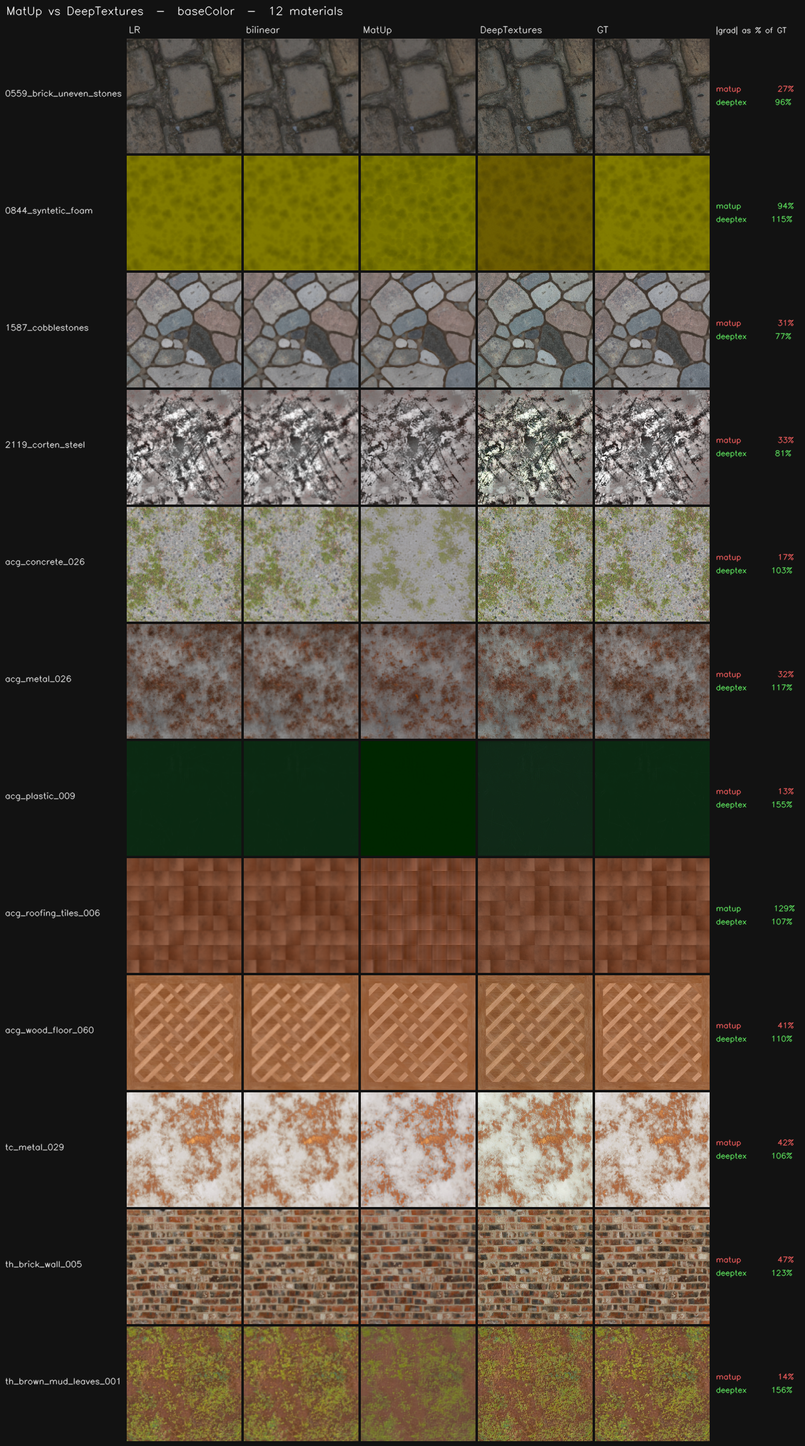
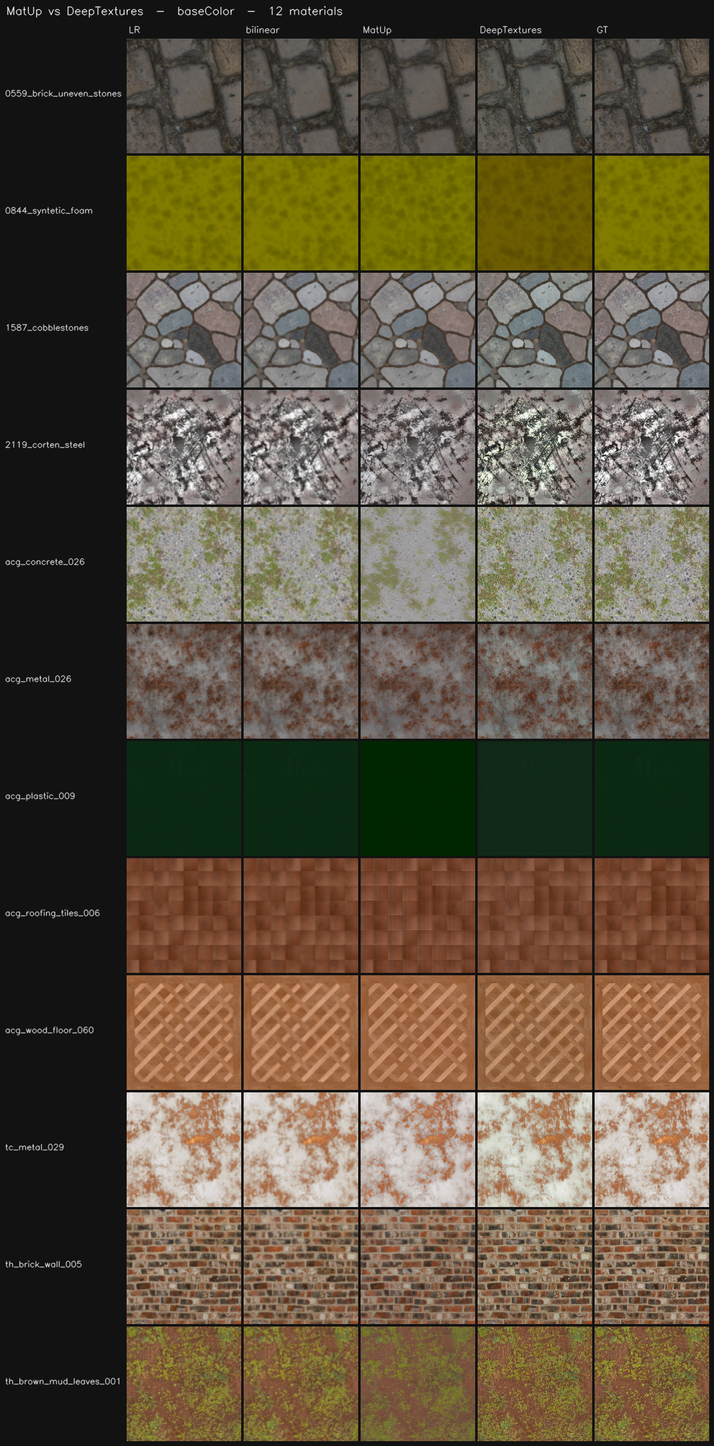
Drop the gradient percentages from the overview sheet
The numbers were stamped beside every row in red and green, which tells the eye
what to conclude before it has looked. The sheet is a contact sheet; the reader
should be able to see that the MatUp column is soft and the DeepTextures column
is not, without a colour-coded verdict pointing at it.

The finding is unchanged and still recorded - runs/montages/<material>.json under
maps.<map> carries grad and lapvar for every column, and the docstring keeps the
range so nobody re-adds the feature without knowing why it went.

Sheet is now 1184x2396, images only.

diff --git a/scripts/compare/matup_overview.py b/scripts/compare/matup_overview.py
@@ -9,18 +9,19 @@ matup_montage.py answers "what did the methods do to THIS material". This answer
 twelve separate files cannot show. Cells come from the same compare/ directories,
 so nothing is recomputed and nothing can drift from the per-material sheets.
 
-The gradient column is why this sheet exists rather than a table. Over the twelve
-materials MatUp lands at 14-47% of the ground truth's mean gradient magnitude and
-DeepTextures at 78-156%, while PSNR prefers MatUp on ten of twelve - and prefers
-the untouched LR input over BOTH methods on several. Printing |grad| as a
-percentage of GT next to the pictures puts that contradiction where it cannot be
-missed: one method removes detail, the other invents it at roughly the right
-amount, and a single number hides which.
+Pictures only, deliberately. An earlier version printed each method's mean
+gradient magnitude as a percentage of the ground truth beside every row, because
+that number contradicts PSNR - MatUp lands at 13-47% on eleven of the twelve
+materials while DeepTextures lands at 77-156%, yet PSNR prefers MatUp on ten of
+twelve and on several prefers the untouched LR input to both methods. The
+contradiction is real and belongs in the report; it does not belong stamped on
+the contact sheet, where it tells the eye what to conclude before the eye has
+looked. The numbers are in runs/montages/<material>.json under maps.<map>, and
+in summary.md.
 """
 
 import argparse
 import glob
-import json
 import os
 
 import cv2
@@ -33,7 +34,6 @@ PAD = 4
 LEFT = 210
 HEAD = 30
 TITLE = 34
-RIGHT = 150          # the |grad| as % of GT column
 FONT = cv2.FONT_HERSHEY_SIMPLEX
 
 
@@ -78,26 +78,13 @@ def main():
             cells[fname] = cv2.imread(p, cv2.IMREAD_UNCHANGED) if os.path.exists(p) else None
         if cells["gt"] is None:
             continue
-
-        # |grad| as a percentage of GT, read from the metrics the montage shares.
-        pct = {}
-        mpath = os.path.join(cmp_dir, "metrics.json")
-        if os.path.exists(mpath):
-            with open(mpath) as fh:
-                mm = json.load(fh)
-            e = mm.get("maps", {}).get(args.map, {})
-            g = (e.get("gt") or {}).get("grad")
-            for _, fname in COLUMNS:
-                v = (e.get(fname) or {}).get("grad")
-                if g and v is not None:
-                    pct[fname] = 100.0 * v / g
-        rows.append((os.path.basename(d.rstrip("/")), cells, pct))
+        rows.append((os.path.basename(d.rstrip("/")), cells))
 
     if not rows:
         raise SystemExit("nothing to draw under " + args.root)
 
     size = args.size
-    w = LEFT + len(COLUMNS) * (size + PAD) + PAD + RIGHT
+    w = LEFT + len(COLUMNS) * (size + PAD) + PAD
     h = TITLE + HEAD + len(rows) * (size + PAD) + PAD
     sheet = np.full((h, w, 3), 18, np.uint8)
 
@@ -109,10 +96,8 @@ def main():
         x = LEFT + c * (size + PAD)
         cv2.putText(sheet, lab, (x + 3, TITLE + 20), FONT,
                     fit(lab, size - 6, 0.5), (215, 215, 215), 1, cv2.LINE_AA)
-    cv2.putText(sheet, "|grad| as % of GT", (LEFT + len(COLUMNS) * (size + PAD) + 6,
-                TITLE + 20), FONT, 0.42, (215, 215, 215), 1, cv2.LINE_AA)
 
-    for r, (name, cells, pct) in enumerate(rows):
+    for r, (name, cells) in enumerate(rows):
         y = TITLE + HEAD + r * (size + PAD)
         cv2.putText(sheet, name, (8, y + size // 2), FONT,
                     fit(name, LEFT - 16, 0.46), (215, 215, 215), 1, cv2.LINE_AA)
@@ -124,15 +109,6 @@ def main():
                 cv2.putText(cell, "n/a", (size // 2 - 18, size // 2), FONT, 0.5,
                             (110, 110, 110), 1, cv2.LINE_AA)
             sheet[y:y + size, x:x + size] = cell
-
-        xr = LEFT + len(COLUMNS) * (size + PAD) + 6
-        for i, key in enumerate(("matup", "deeptex")):
-            if key in pct:
-                # Red when detail was lost, green when it is near or above GT.
-                col = (90, 220, 90) if pct[key] >= 70 else (90, 90, 235)
-                cv2.putText(sheet, "%-12s %3.0f%%" % (key, pct[key]),
-                            (xr, y + size // 2 - 8 + i * 22), FONT, 0.42,
-                            col, 1, cv2.LINE_AA)
 
     if not cv2.imwrite(args.out, sheet):
         raise SystemExit("cv2.imwrite failed for " + args.out)
